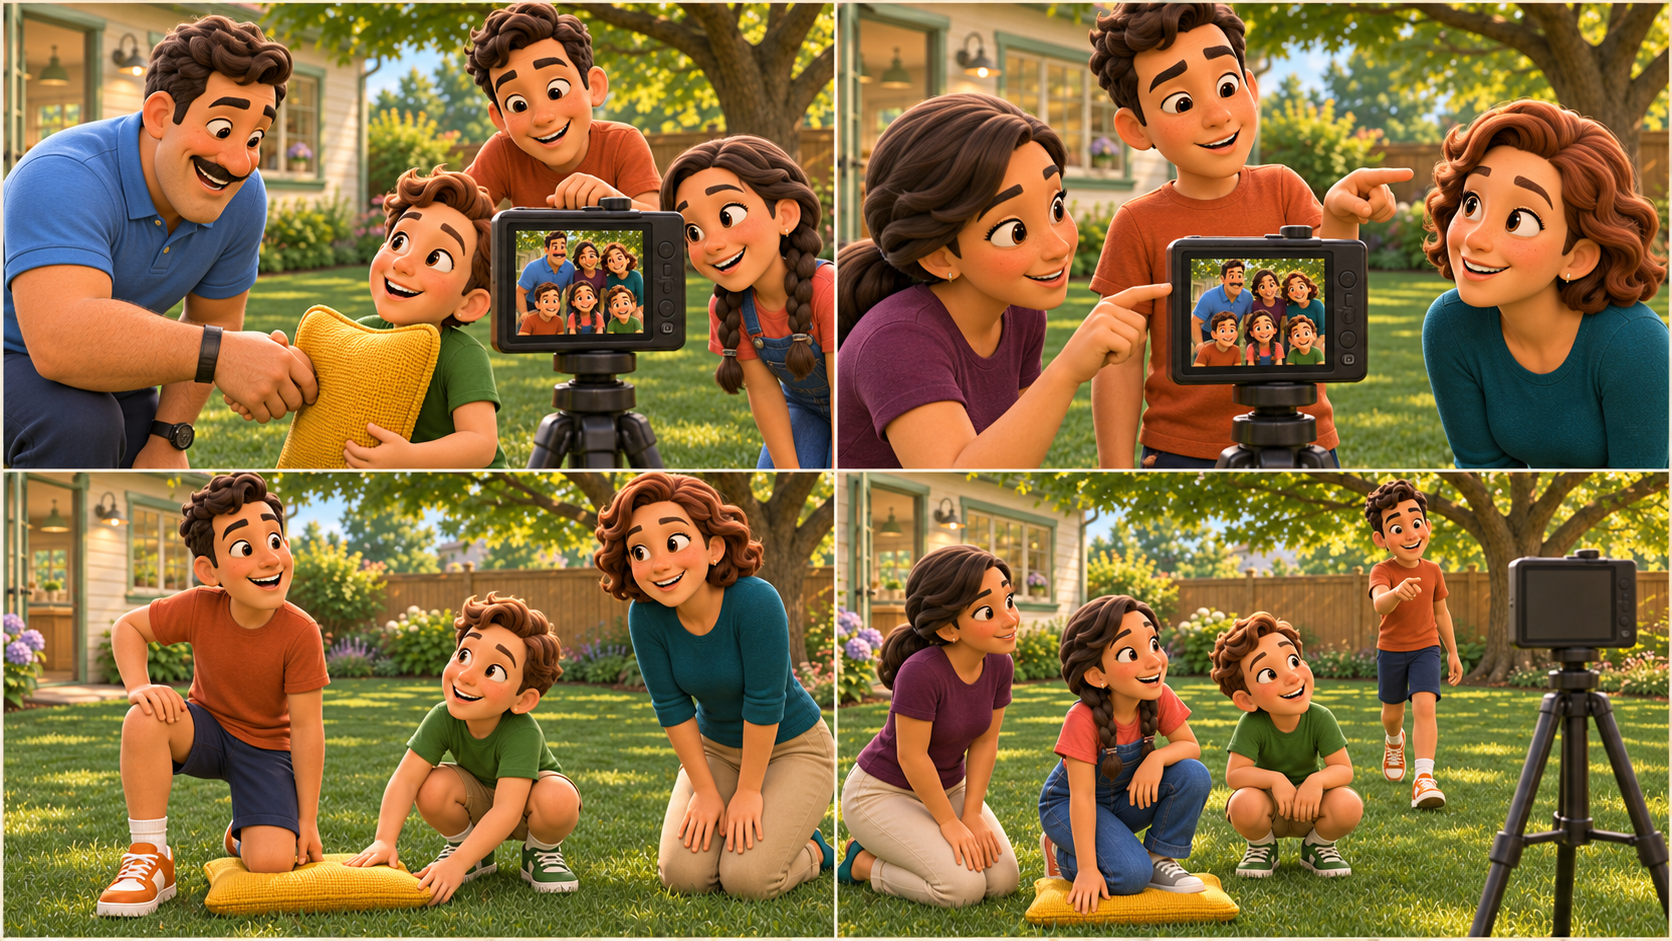
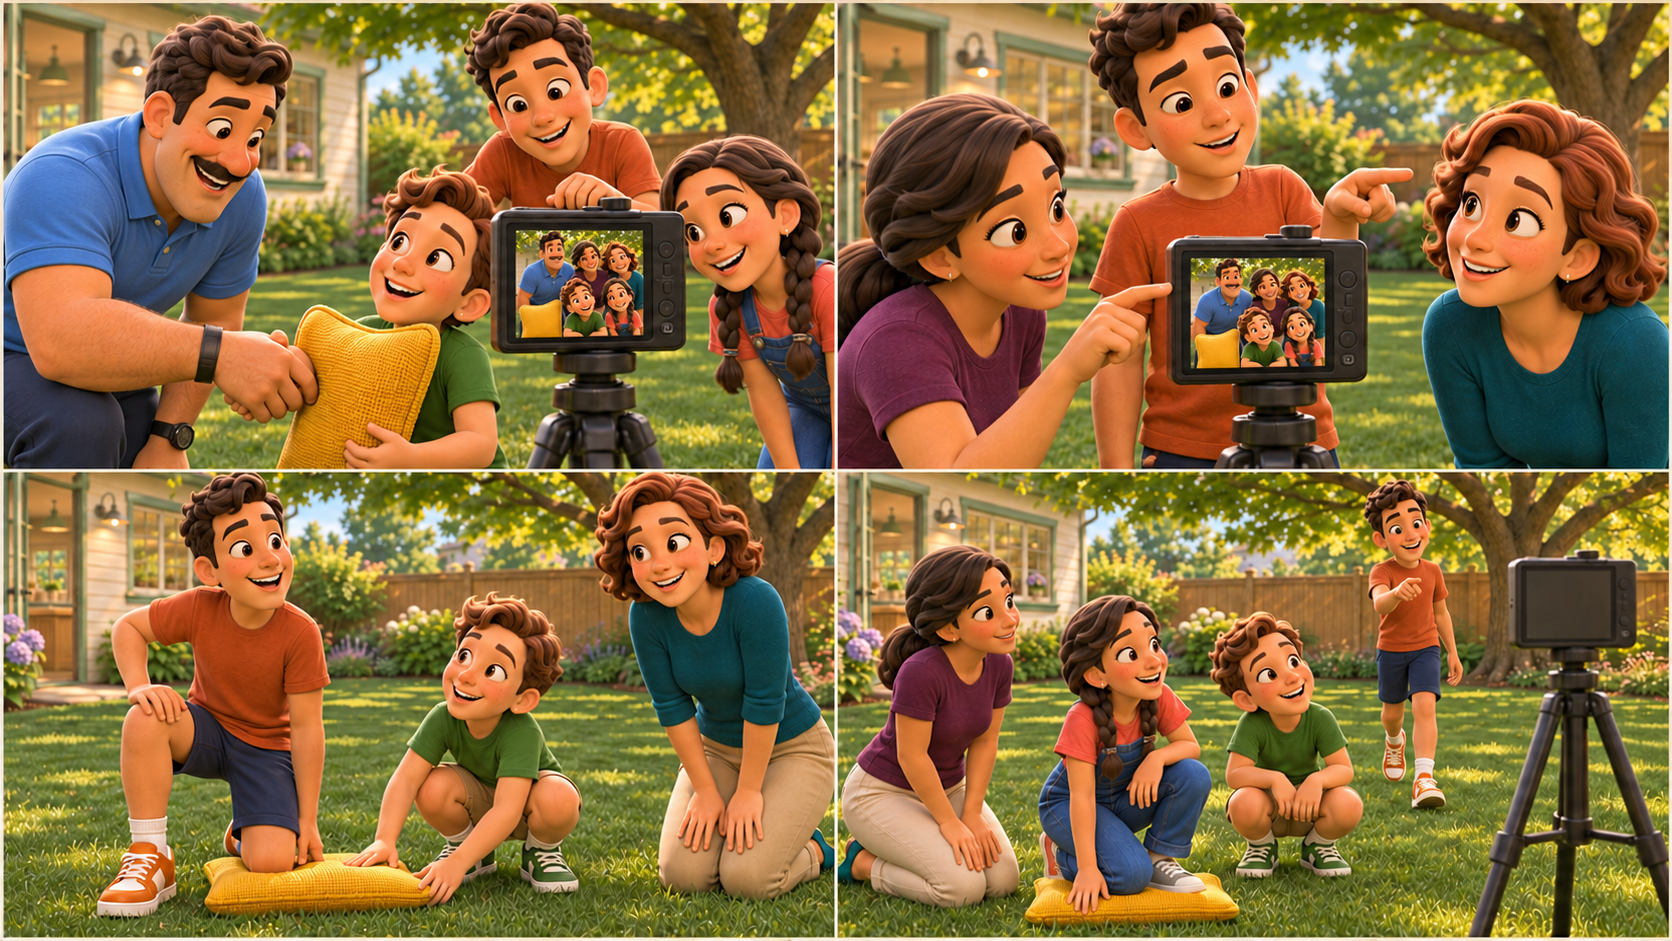
Correct the five-person camera playback on Episode 12 sheet 06

diff --git a/Episode_12/assets/storyboards/GENERATION_NOTES.md b/Episode_12/assets/storyboards/GENERATION_NOTES.md
@@ -23,6 +23,20 @@ The additional references for each sheet are listed below. Reference boards supp
 
 - Sheet 03. The shoe photo sits in the album’s left pocket. The adjacent pocket is empty, and Max holds one yellow cushion.
 - Sheet 04. Max carries the plain yellow cushion through the garden door. [Earlier sheet](https://github.com/arunabanarjee32-bit/ai-story-building/blob/44b628f030137eea10c9ecb37463630e22da7f9f/Episode_12/assets/storyboards/BOARD_04.png)
+- Sheet 06. Both camera screens in shots 021 and 022 show the test photo from shot 020. The yellow cushion, Max and Ella are in front of Dan, Maya and Nina. Leo stands beside the camera. [Earlier sheet](https://github.com/arunabanarjee32-bit/ai-story-building/blob/9b391b94470e81fd27b2600ecc95dfb106b260ce/Episode_12/assets/storyboards/BOARD_06.png)
+
+## Sheet 06 correction direction
+
+<details>
+<summary>Playback image used for shots 021 and 022</summary>
+
+> Use case: precise-object-edit. Image 1 is the full Episode 12 storyboard sheet 06 to correct. Image 2 is the preceding sheet 05 and supplies the precise test photograph required in the correction. Return a full landscape 16:9 sheet matching image 1, same existing thin ivory 2-by-2 frame lines, crops, warm 3-D render, garden, cast faces, costumes, hands, cushion actions, staging, lighting and all foreground characters. This is an LCD playback continuity fix.
+>
+> Change ONLY the picture displayed INSIDE the little black camera’s LCD in each top panel of image 1. Both screens display EXACTLY the same previously saved five-person photograph seen large inside the compact camera in the BOTTOM RIGHT of reference image 2. Treat it as a pre-existing still to place in both displays, fitting the black bezels. Required contents in each of the two tiny LCDs, left to right: back row Dan (blue shirt, mustache), Maya (plum), Nina (teal); front row an upright plain yellow square cushion at far left, Max (little boy green shirt) in center, Ella (braids, coral shirt with blue overalls) at right. Exactly THREE ADULT and TWO CHILD faces inside each LCD. The orange-shirted boy Leo took that photograph and is entirely absent INSIDE both LCDs. He must remain the actual orange-shirted boy OUTSIDE both screens where already present. The plain yellow cushion substitutes for his body in the saved photo. Do not add playback icons or text. In the top left panel the physical yellow cushion still exists in Max's arms as well as the cushion in the old photo. In the top right panel Leo is still standing in person between Maya and Nina. Preserve both lower panels as closely as possible. Return only the corrected entire board with no annotations.
+>
+> Reference image 3 enlarges those exact existing pixels from sheet 05. Reproduce this little rectangular photograph on both camera displays, including the five familiar faces in that order and the straw-yellow cushion at lower left.
+
+</details>
 
 ## Sheet 08 generation direction
 
@@ -54,6 +68,6 @@ Each PNG was decoded and checked for dimensions, chunk integrity and four distin
[7 lines of base64/hex data omitted]
